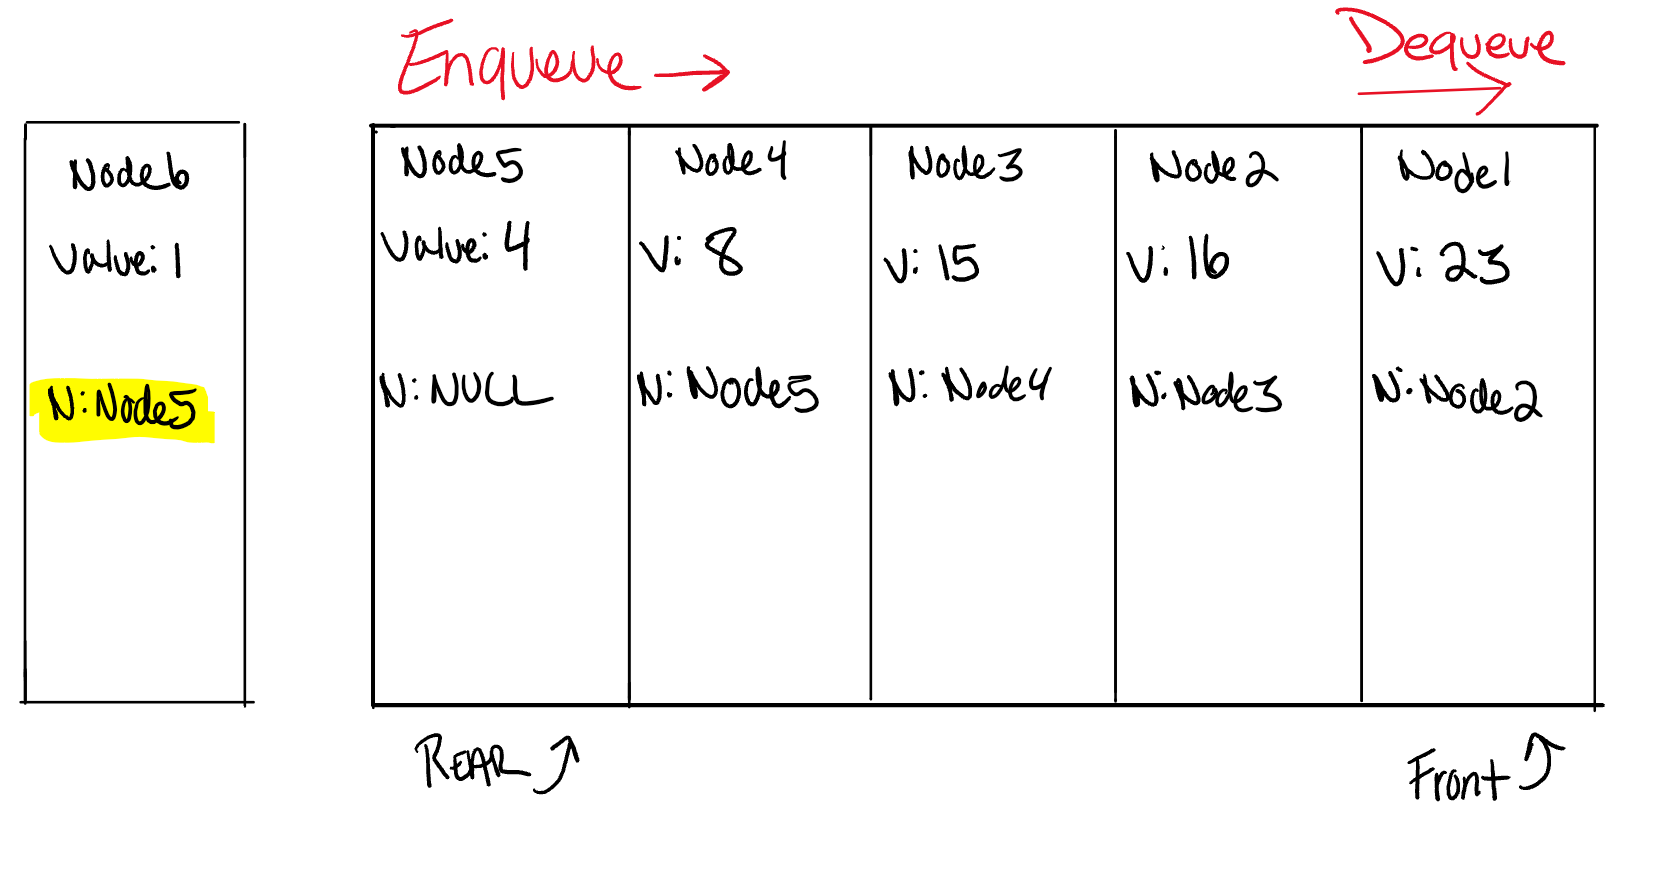
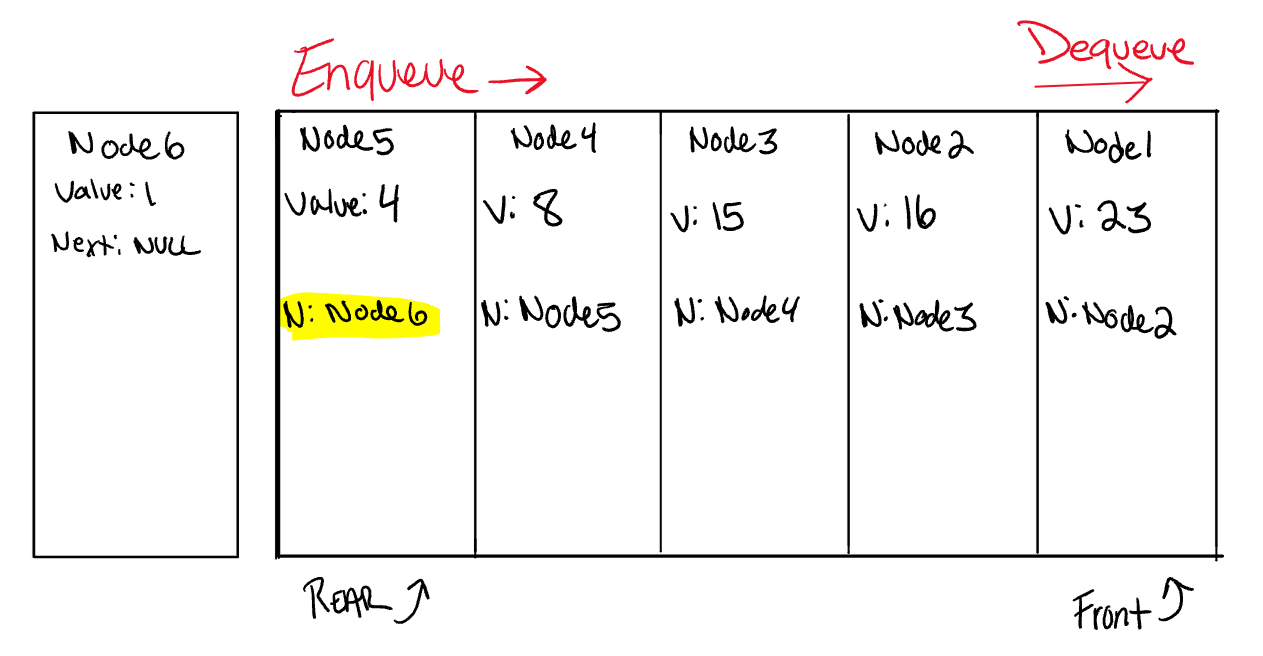
update impl

Changed region(s): [[0.2162, 0.0, 0.9881, 0.9756], [0.0, 0.122, 0.1853, 0.8537]]

diff --git a/Curriculum/Class10/Resources/STACKSQUEUES.md b/Curriculum/Class10/Resources/STACKSQUEUES.md
@@ -150,8 +150,12 @@ Let's walk through the process of adding a node to a queue:
 
 ![Singly Linked List](assets/Enqueue1.PNG)
 
-1. The first thing we have to do assign the new node, `Node6`'s `Next` property to point to the same node that `Rear` points to. 
-This means that we will be pointing `Node6.Next` to be `Node5`.
+1. First, we should change the `Next` property of `Node5` to point to the node
+we are adding. In our case with the visual below, we will be re-assigning `Node5.Next` to `Node6`.
+
+The only way we have access to `Node5` is through our reference type `Rear`. Following the rules of refernece types,
+this means that we have to change `Rear.Next` to `Node6`. 
+
 
 ![Singly Linked List](assets/Enqueue2.PNG)
 
@@ -170,8 +174,8 @@ Here is the C# Code for the `Enqueue` method:
 ```csharp
 public void Enqueue(Node node)
 {
-	node.Next = Rear;
-	Rear = node.Next;
+	Rear.Next = node;
+	Rear = node;
 }
 ```
 
@@ -207,7 +211,7 @@ later and clean up.
 Here is the C# Code for the `Dequeue` method:
 
 ```csharp
-public Node Dequeue(Node node)
+public Node Dequeue()
 {
 	Node temp = Front;
 	Front = Front.Next;
